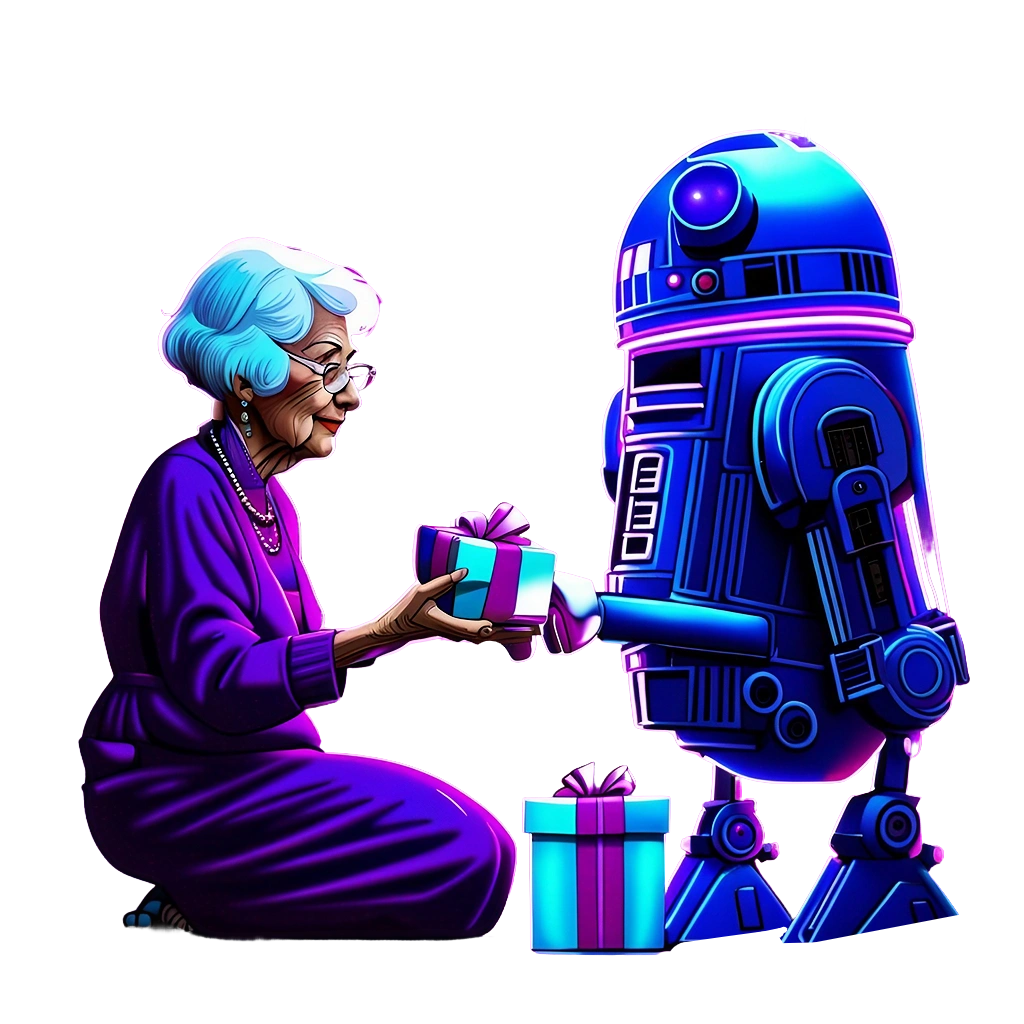
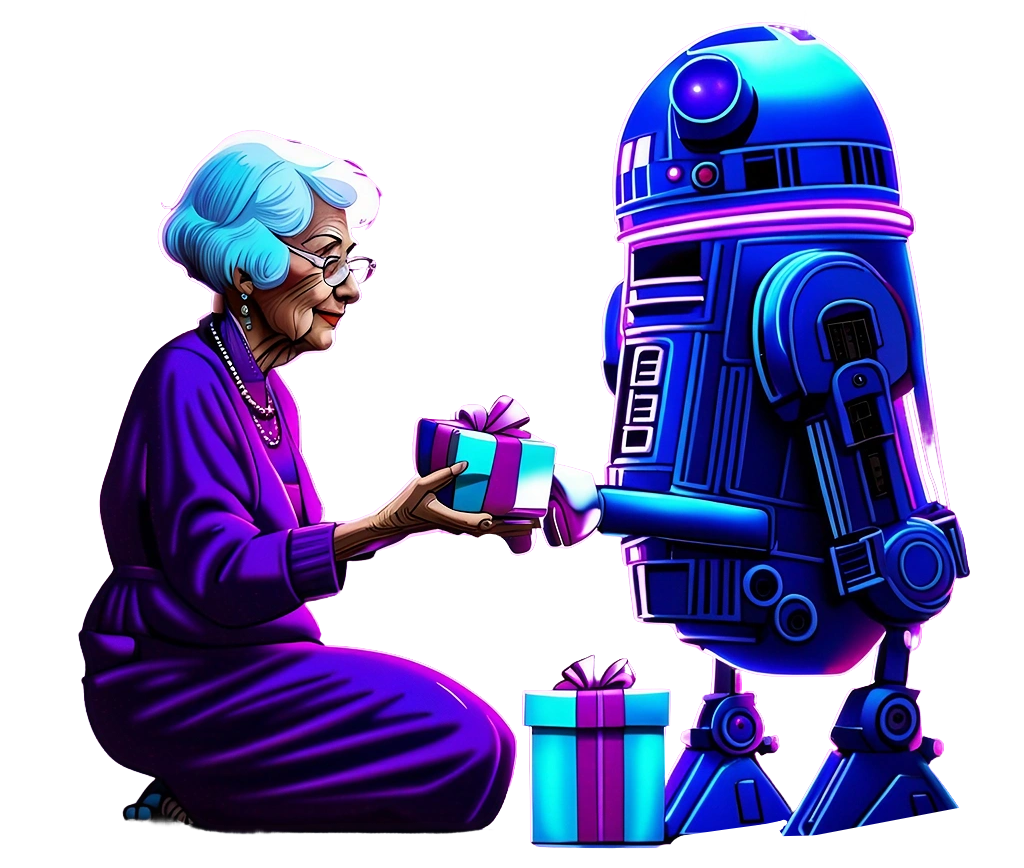
Add images 2

diff --git a/nuxt_app/pages/index/ai_response.vue b/nuxt_app/pages/index/ai_response.vue
@@ -45,14 +45,15 @@ export default defineNuxtComponent({
 <template lang="pug">
 div.page-wrapper
   div.cover-wrapper
+    h1(style="white-space: nowrap;") AI Response
     div(style="flex: 1")
     img(src="images/boy.png" alt="A boy with a present")
 
-  h1 AI Response
   p To clear history, refresh the page
   p You can download conversation:
-    button.button(@click="chatbot.export_txt") as .txt
-    button.button(@click="chatbot.export_json") as .json
+    span(style="white-space: nowrap;")
+      button.button(@click="chatbot.export_txt") as .txt
+      button.button(@click="chatbot.export_json") as .json
 
   div.messages-wrapper
     div.messages
@@ -101,14 +102,18 @@ div.page-wrapper
 .cover-wrapper {
   display: flex;
   flex-direction: row;
+  align-items: flex-end;
 
   img {
     margin-top: 50px;
-    width: 35%;
+    margin-right: 14px;
+    margin-bottom: -120px;
+    width: 150px;
     display: block;
+
+    z-index: -1;
   }
 }
-
 
 .messages-wrapper {
   width: 100%;
@@ -146,7 +151,7 @@ div.page-wrapper
 
   height: 100%;
   padding: 10px;
-  box-sizing: padding-box;
+  box-sizing: border-box;
 
   overflow-y: scroll;
 

diff --git a/nuxt_app/pages/index/params.vue b/nuxt_app/pages/index/params.vue
@@ -38,11 +38,6 @@ export default defineNuxtComponent({
 
 <template lang="pug">
 div.page-wrapper
-  div.cover-wrapper
-    img(src="images/man.png" alt="A man with a present")
-    div(style="flex: 1")
-    img(src="images/girl.png" alt="A teenager girl with a present")
-
   h1 Params
   form
     div(v-for="(group, idx) in params.groups" :key="idx")
@@ -107,6 +102,10 @@ div.page-wrapper
 
   pre {{ JSON.stringify(params.values, null, 4) }}
   p(style="white-space: pre-line;") {{ params.prompt }}
+
+  div.cover-wrapper
+    div(style="flex: 1")
+    img.girl(src="images/girl.png" alt="A teenager girl with a present")
 </template>
 
 <style src="@vuepic/vue-datepicker/dist/main.css"></style>
@@ -126,7 +125,7 @@ div.page-wrapper
 
   img {
     margin-top: 50px;
-    width: 35%;
+    width: 210px;
     display: block;
   }
 }

diff --git a/nuxt_app/pages/index/about.vue b/nuxt_app/pages/index/about.vue
@@ -40,6 +40,9 @@ div.page-wrapper
         aria-label="Star nikitalogos/birthday_greetings_ai on GitHub"
       ) Star
 
+  div.cover-wrapper
+    img(src="images/old_lady.png" alt="Robot gives a present to an old lady")
+
 </template>
 
 <style scoped lang="scss">
@@ -53,6 +56,17 @@ h3 {
   }
   .gh {
     vertical-align: middle;
+  }
+}
+
+.cover-wrapper {
+  display: flex;
+  flex-direction: column;
+  align-items: center;
+
+  img {
+    width: 65%;
+    display: block;
   }
 }
 </style>
